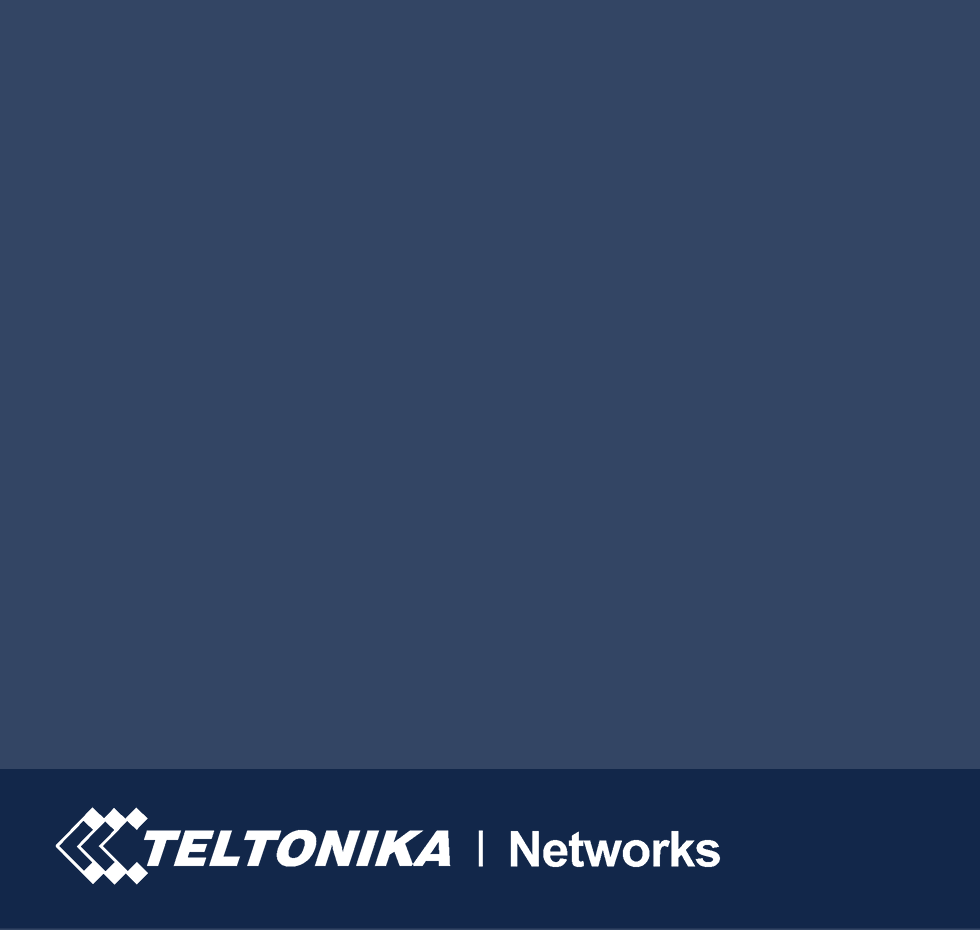
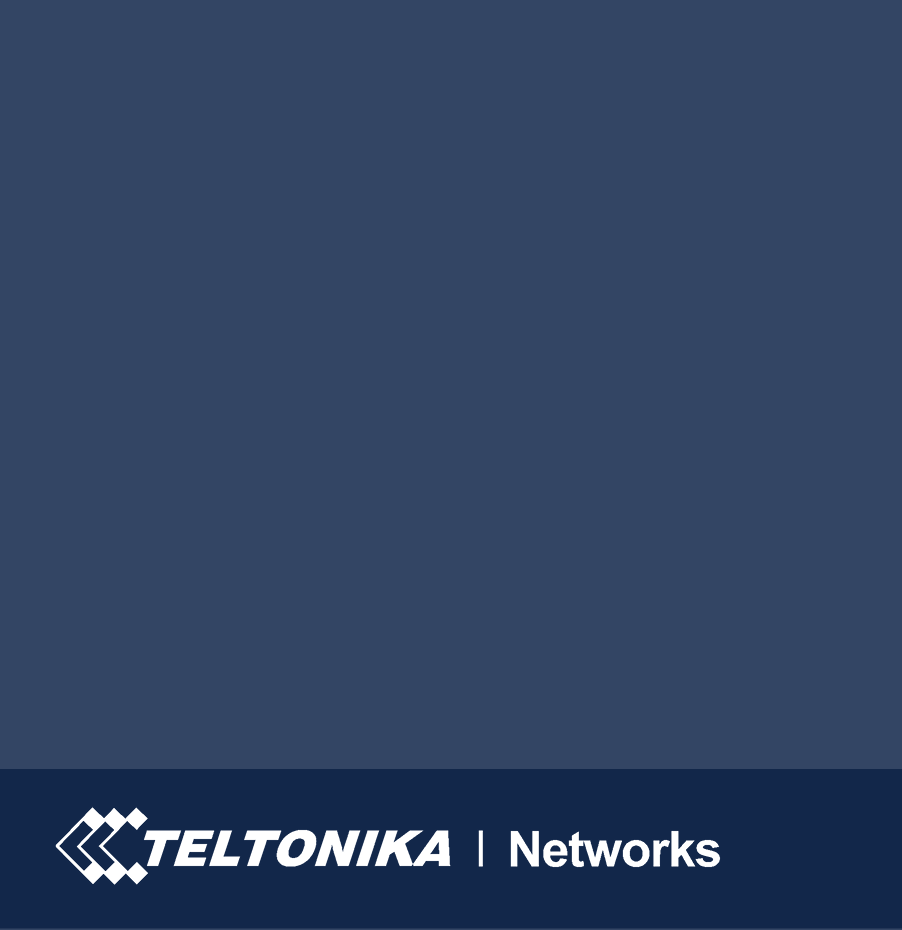
TM/BE: update graphics

Changed region(s): [[0.0621, 0.8731, 0.8071, 0.9667]]

diff --git a/TeltonikaMonitor/src/main.ts b/TeltonikaMonitor/src/main.ts
@@ -160,7 +160,7 @@ function prepareCairoPainter(): void {
         screen_width: overlay.width,
         screen_height: overlay.height,
         co_ord: overlay.alignment,
-        width: 980,
+        width: 902,
         height: 930,
     });
 
@@ -173,14 +173,14 @@ function prepareCairoPainter(): void {
     });
     frames.routerName = new CairoFrame({
         x: 148,
-        y: 73,
+        y: 64,
         width: 301,
         height: 35,
     });
     frames.routerIP = new CairoFrame({
-        x: 651,
-        y: 73,
-        width: 269,
+        x: 632,
+        y: 64,
+        width: 221,
         height: 35,
     });
     frames.simInserted_1 = new CairoFrame({
@@ -192,14 +192,14 @@ function prepareCairoPainter(): void {
     frames.operator_1 = new CairoFrame({
         x: 189,
         y: 204,
-        width: 164,
+        width: 281,
         height: 28,
     });
     frames.connectionType_1 = new CairoFrame({
         x: 189,
-        y: 259,
-        width: 53,
-        height: 28,
+        y: 244,
+        width: 70,
+        height: 37,
     });
     frames.signalStrenght_1 = new CairoFrame({
         x: 265,
@@ -208,25 +208,25 @@ function prepareCairoPainter(): void {
         height: 41,
     });
     frames.simInserted_2 = new CairoFrame({
-        x: 483,
+        x: 478,
         y: 158,
         width: 109,
         height: 146,
     });
     frames.operator_2 = new CairoFrame({
-        x: 625,
+        x: 620,
         y: 204,
-        width: 164,
+        width: 281,
         height: 28,
     });
     frames.connectionType_2 = new CairoFrame({
-        x: 625,
-        y: 259,
-        width: 53,
-        height: 28,
+        x: 620,
+        y: 244,
+        width: 70,
+        height: 37,
     });
     frames.signalStrenght_2 = new CairoFrame({
-        x: 700,
+        x: 695,
         y: 243,
         width: 51,
         height: 41,
@@ -301,7 +301,7 @@ function prepareCairoPainter(): void {
         x: 148,
         y: 694,
         width: 554,
-        height: 21,
+        height: 25,
     });
 
     cp.insertAll(frames);
@@ -552,7 +552,7 @@ async function loadFonts(): Promise<void> {
     bold = (await co.uploadFontData(fs.readFileSync('./fonts/gotham_bold.ttf'))).var;
 }
 function updateFrames(): void {
-    cp.setBgImage(images['background'], 'fit');
+    cp.setBgImage(images['background'], 'plain');
 
     frames.routerName.setFont(bold);
     frames.routerIP.setFont(bold);
@@ -602,11 +602,11 @@ function displayGraphics(mi: ModemInfo) {
     }
 
     frames.routerName.setText(mi.name, 'A_LEFT');
-    frames.routerIP.setText(mi.wan_ip, 'A_LEFT');
+    frames.routerIP.setText(mi.wan_ip, 'A_RIGHT');
 
     if (img == 1) {
         frames.simInserted_1.setBgImage(mi.sim.active ? images[`sim_1_active`] : images[`sim_1_inactive`], 'fit');
-        frames.operator_1.setText(mi.sim.operator, 'A_LEFT');
+        frames.operator_1.setText(mi.sim.operator, 'A_LEFT', 'TFM_TRUNCATE');
         frames.connectionType_1.setText(mi.sim.connection_type, 'A_LEFT');
         frames.signalStrenght_1.setBgImage(images['strength_' + mi.sim.strenght], 'fit');
 
@@ -616,7 +616,7 @@ function displayGraphics(mi: ModemInfo) {
         frames.signalStrenght_2.removeImage();
     } else {
         frames.simInserted_2.setBgImage(mi.sim.active ? images[`sim_2_active`] : images[`sim_2_inactive`], 'fit');
-        frames.operator_2.setText(mi.sim.operator, 'A_LEFT');
+        frames.operator_2.setText(mi.sim.operator, 'A_LEFT', 'TFM_TRUNCATE');
         frames.connectionType_2.setText(mi.sim.connection_type, 'A_LEFT');
         frames.signalStrenght_2.setBgImage(images['strength_' + mi.sim.strenght], 'fit');
 

diff --git a/TeltonikaMonitor/src/CairoFrame.ts b/TeltonikaMonitor/src/CairoFrame.ts
@@ -12,6 +12,7 @@ type Options = {
     font_color?: RGB;
     bg_color?: RGBA;
 };
+type TMF = 'TFM_OVERFLOW' | 'TFM_SCALE' | 'TFM_TRUNCATE';
 
 const white: RGB = [255, 255, 255];
 
@@ -28,6 +29,7 @@ export default class CairoFrame {
     private fill: boolean;
     private bg_image: string;
     private bg_type: 'fit' | 'stretch' | 'plain';
+    private text_type: TMF;
     private align: Align;
     private bg_width: number = null;
     private bg_height: number = null;
@@ -48,13 +50,15 @@ export default class CairoFrame {
         this.fill = true;
 
         this.bg_type = 'plain';
+        this.text_type = 'TFM_OVERFLOW';
         this.align = 'A_LEFT';
     }
 
-    setText(text: string, align: Align, color = white): void {
+    setText(text: string, align: Align, text_type: TMF = 'TFM_OVERFLOW', color = white): void {
         this.text = text;
         this.font_color = color;
         this.align = align;
+        this.text_type = text_type;
     }
 
     insert(...frames: CairoFrame[]): void {
@@ -104,7 +108,7 @@ export default class CairoFrame {
                 Math.floor(scale * this.width),
                 Math.floor(scale * this.height),
                 this.align,
-                'TFM_OVERFLOW'
+                this.text_type
             );
         }
     }
